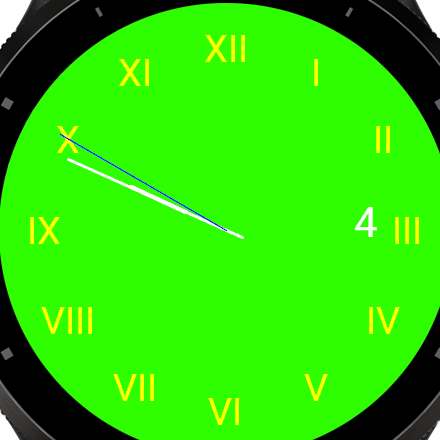
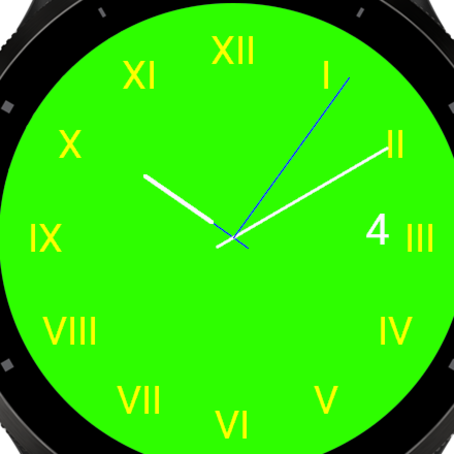
Regenerate sim screenshots at 10:10; add 1440x720 hero image
- Re-capture all 7 theme screenshots with the time forced to 10:10 and
  ~65% battery (shows the battery-as-hour-hand accent), normalized to
  454x454 (Venu 3 native).
- Add store/hero.png (1440x720) -- the store banner: dark background, app
  name, and three themes at 10:10.
- README: document the hero and the 10:10 / 454x454 details.

diff --git a/store/README.md b/store/README.md
@@ -2,6 +2,12 @@
 
 Assets for the Connect IQ store listing.
 
+## Hero image (`hero.png`)
+
+The store banner — **1440×720** (the size the store requires for the hero
+image). Dark banner with the app name and three themes (blue/purple/red) at
+10:10.
+
 ## Screenshots
 
 Two sets, one image per color theme (`1-blue` … `7-black_silver`):
@@ -10,10 +16,10 @@ Two sets, one image per color theme (`1-blue` … `7-black_silver`):
 
 Real Connect IQ simulator renders on the **Venu 3** (round AMOLED) with the
 **actual Garmin font**, captured via window-region `screencapture` and cropped
-to the watch face (~440×440). They show a live time, battery ~65% (the
-discharged part of the hour hand is the accent color), the date, and the second
-hand (the capable-device default; fr55 and other constrained devices default it
-off).
+to the watch face, normalized to **454×454** (Venu 3 native). They show time
+**10:10**, battery ~65% (the discharged part of the hour hand is the accent
+color), the date, and the second hand (the capable-device default; fr55 and
+other constrained devices default it off).
 
 ### `screenshots/*.png` — vector renders (reference / fallback)
 
